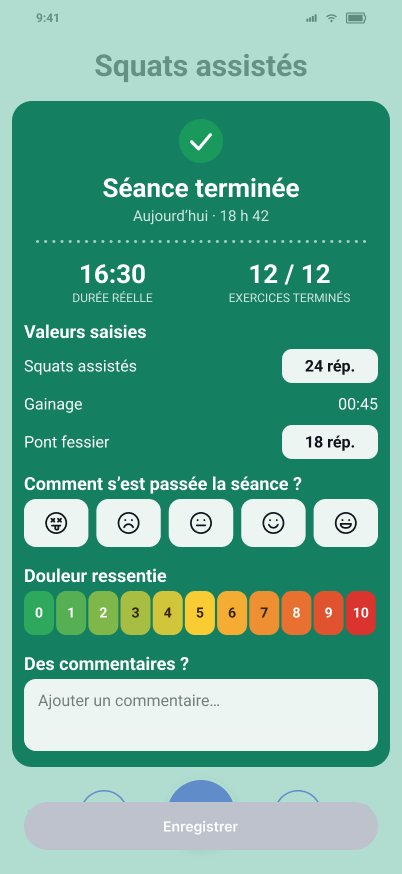
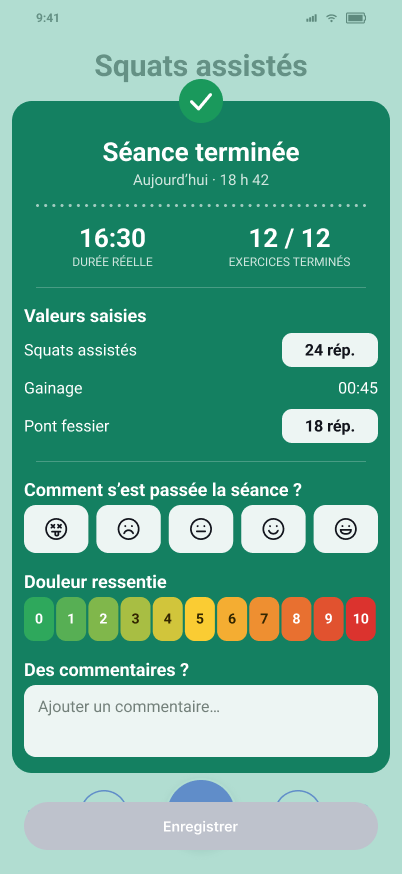
docs(D-578): fin de séance — symbole sur le bord, trois zones séparées
Classe B. Tests non applicables.

Claude-Session: https://claude.ai/code/session_0138cCmJPZqMKdiqcqtCSEpU

Changed region(s): [[0.0299, 0.0927, 0.9851, 0.8959]]

diff --git a/docs/Specifications-fonctionnelles/07 – Registre des décisions de conception.md b/docs/Specifications-fonctionnelles/07 – Registre des décisions de conception.md
@@ -2440,7 +2440,7 @@ Source : [KODJO-Catalogues-cartes-modales-2026-11-06](../KODJO-Catalogues-cartes
 | D-575 | **Pages des formats Tabata, 30/30, HIIT et Renforcement ; modale du Renforcement.** (1) Tabata, 30/30, HIIT : colonne « Objectif » renommée « Intervalle » ; la Durée totale est la dernière ligne du cadre des paramètres (après Exécution et, pour le Tabata à la suite, après « Récupération entre les mouvements ») ; la colonne Charge disparaît : la charge est écrite sous la valeur de l'intervalle, en plus petit et entre parenthèses, et rien n'est affiché quand il n'y a pas de charge. (2) Renforcement : même règle pour la charge (sous la valeur de la colonne Objectif) ; la Durée totale vient après la ligne Exécution ; la première colonne du tableau est « Séries » (nombre de séries de chaque mouvement) ; la ligne globale « Nombre de séries » est supprimée de la page. (2 bis) Death by : la charge est écrite sous la valeur de la colonne Départ, comme au point 1, et la colonne Charge disparaît. (2 ter) Dans les tableaux de ces formats, la dernière colonne est alignée à droite. (3) Modale « Paramètres d'exécution » du Renforcement : un premier cadre porte le Mode seul ; un deuxième réunit Nombre de répétitions, Nombre de séries, Pause et Charge ; un troisième De chaque côté + Cadence (D-572). (3 bis) Renforcement, nombre de séries : « À la suite », chaque mouvement a son propre nombre de séries ; « En alternance », les mouvements partagent les tours : le nombre de séries est commun et lié (le modifier pour un mouvement le modifie pour tous, dans le tableau comme dans la modale) ; le passage à « À la suite » conserve la valeur actuelle de chaque mouvement, qui peuvent ensuite différer. (4) Zone de contexte (Composition) : la durée totale est alignée à droite, en noir, au premier plan, par-dessus l'emplacement de l'illustration ; Progression : Durée totale après Exécution. Décisions de Hermann, 26/11/2026 ; la ligne Pause de la modale porte la colonne Pause de la page. | Validée — 26/11/2026 | [KODJO-Formats-entrainement-2026-11-02](../KODJO-Formats-entrainement-2026-11-02.md) § 9.10 |
 | D-576 | **Exécution d'un exercice : permutation des vues et changement de média.** (1) Un glissé horizontal (gauche ou droite) sur la zone du haut permute cadran ↔ gros chiffres ; sur la zone du bas (carte des informations ou média) il permute infos ↔ média. (2) Aucun écran d'exécution ne comporte de bouton ⇄ (retirés partout dans Figma le 26/11/2026) : la permutation des vues se fait uniquement par le glissé. [Remplace le bouton de changement de face de D-203 et la proposition du 26/11/2026 de deux boutons ⇄.] (3) Le glissé ne change plus de média : le changement de média se fait avec des flèches gauche/droite sur la zone média ; la galerie reste à plusieurs médias, ordre de la galerie, non circulaire, flèche inactive à la borne, pagination conservée. (4) Le média reste à la taille du demi-écran tant que le bouton d'extension n'est pas actionné ; les flèches de changement de média existent aussi en plein écran. Décisions de Hermann, 26/11/2026. | Validée — 26/11/2026 | [CONCEPTION-EXECUTION-MEDIA](../CONCEPTION-EXECUTION-MEDIA.md) § 5 |
 | D-577 | **Écran « Avant la séance » (affiché avant l'écran d'exécution avec le compte à rebours).** (1) Contenu : en-tête DSF avec bouton Retour et, pour titre, le nom de la séance (pas de zone de contexte, pas de trait de séparation) ; liste en lignes de texte, sans rail ni cartes (ce n'est pas une copie de la composition), des exercices, cycles et circuits qui vont être exécutés, dans l'ordre de la composition, avec le format de chaque circuit mis en évidence (chiffre en premier : « 8 tours · TABATA » (nom du format en majuscules, pour qu'on voie bien quel format est utilisé ; « Circuit libre » quand le circuit n'a pas de format), « 3 tours · Circuit libre », « 2 cycles » ; sans le détail des durées ni la nature groupées/alternées) ; bouton Commencer. (2) Lancement dans un Programme dont l'option douleur est active (D-427) : échelle de douleur 0–10 (libellé « Douleur ressentie avant la séance », sans légende : les cases 0 à 10 sont colorées du vert au rouge selon leur niveau, les couleurs suffisant à indiquer le sens de l'échelle) obligatoire, sans présélection, Le bouton de départ est inactif tant qu'aucun chiffre n'est choisi ; l'écran est toujours affiché. (3) Autre lancement : pas d'échelle de douleur ; une case à cocher « Ne plus afficher cet écran » est proposée, uniquement dans ce cas, en plus petit, hors du cadre vert, entre le cadre de la liste et celui de la douleur. Elle désactive l'affichage de l'écran pour cette séance seulement, jusqu'à ce que l'ordre ou le contenu de la séance (exercices, cycles, circuits, formats) change ; un changement des paramètres d'exécution (durées, répétitions) ne le fait pas réapparaître. Pour toutes les séances, le réglage « Afficher l'écran de démarrage de séance » (interrupteur, activé par défaut, premier réglage du groupe Séance de Profil › Préférences) affiche l'écran pour toute séance ; désactivé, il ne l'affiche pour aucune. La capture de la douleur ne dépend que du Programme (option douleur, D-427) et n'est pas concernée : les deux informations (liste de la séance, douleur) sont distinctes ; avec l'option douleur active, ni la case ni le réglage ne suppriment la capture : quand l'affichage est désactivé, seule la douleur est demandée : même écran, avec uniquement le deuxième cadre (douleur et départ), centré verticalement sur la page. [Remplace la mention « Facultatif. Sans réponse, la douleur est notée 0 » de l'ancienne version de l'écran, contraire à D-427.] (4) Parcours de plusieurs séances : l'écran existe en deux versions, une pour la première séance, une pour les suivantes (rang ≥ 2, écran de transition avant la séance suivante). La douleur est demandée une seule fois, sur la version de la première séance, et appliquée à toutes les séances du parcours ; la version des séances suivantes n'a pas d'échelle de douleur. Cette version est dessinée dans l'écran Figma « Exécution d'une séance — Initial — Enchaînement (proposition) » (`12716:25405`), qui reprend la présentation de l'écran de la première séance sans l'échelle de douleur (un seul grand cadre vert centré dans la page, contenant le titre, la liste et le bouton « Appuyer pour démarrer la 2ème séance » ; sans « du parcours »), sur le voile vert. (5) Présentation : le premier écran d'exécution de la séance est visible en fond, recouvert sur toute la hauteur du voile vert de l'écran de transition entre séances (DSF-AGENDA), identique à celui de l'écran de transition (même teinte, ≈ 35 %), posé sur un voile blanc à 50 % qui estompe l'écran d'exécution sans assombrir le vert ; le nom n'est pas affiché dans l'en-tête, il l'est comme titre de la carte ; le contenu est porté par une carte blanche, le bouton Retour DSF restant au-dessus du voile. La liste est présentée en une seule taille de texte agrandie (22 pt pour cycles, circuits, formats et exercices ; le titre « Mobilisation du genou » reste à sa taille propre, 26 pt), avec un espace supplémentaire avant chaque bloc circuit ou format (ex. Tabata), les cycles, circuits et formats se distinguant par le gras, sur une carte vert foncé (celui de l'encadré de la transition entre séances) aux textes blancs, avec une indentation par niveau (cycle, circuit, exercices du circuit) ; le titre de la carte (nom de la séance, ou du parcours : « Mobilisation du genou » dans l'écran) est affiché en plus grand, en gras, centré, avec davantage d'espace au-dessus et en dessous, à égale distance du haut du cadre et d'une ligne de pointillés blancs qui le sépare de la liste ; si le titre est trop long, il passe sur deux lignes ; si la liste est plus longue, la carte s'étend vers le haut (le bas reste ancré au-dessus de la carte douleur et départ) ; si elle dépasse encore la hauteur disponible, seule la liste défile, le titre restant toujours visible ; la douleur et Commencer sont sur une carte distincte, en bas de l'écran, de même vert foncé, libellé (gras, 22 pt comme les cycles et circuits) et légende en blanc. Les textes de la liste, de l'échelle de douleur et du bouton de départ sont en Roboto. Chaque exercice de la liste, hors le premier mis en avant, est précédé d'un petit point de liste. (6) Bouton de départ, de hauteur doublée (96 pt) et à texte agrandi : « Appuyer pour démarrer la séance » (séance lancée seule), « Appuyer pour démarrer le parcours » (première séance d'un parcours), « Appuyer pour démarrer la Xème séance du parcours » (séances suivantes), en texte agrandi sur deux lignes, sur fond blanc avec texte bleu du DSF et un effet de relief porté par le bouton lui-même (léger dégradé et bord inférieur épais, sans ombre portée) qui le fait lire comme un bouton (le bouton bleu standard manque de contraste sur le vert). Le chiffre choisi ressort par une case nettement plus grande (≈ 40 × 58 pt), un chiffre plus gros et une ombre portée, sans liseré. Avec l'échelle de douleur, il est inactif tant qu'aucun chiffre n'est choisi ; état inactif (Figma `13419:1329`) : bouton sur fond gris, sans relief, texte gris plus clair ; toutes les cases de l'échelle de même taille, aucune sélectionnée ; l'écran Figma le montre activé, douleur choisie. Décisions de Hermann, 27/11/2026. | Validée — 27/11/2026 | Figma « P-Avant la séance — Douleur » (`8921:35275`) et « Enchaînement (proposition) » (`12716:25405`) ; ch13 CE-EXEC-SESSION-01 ; rendu : `docs/DSF-AVANT-SEANCE-2026-11-27.md` |
-| D-578 | **Écran de fin de séance, état initial (Terminée — évaluation initiale).** Présentation reprise de l'écran « Avant la séance » (D-577) : l'écran d'exécution de la séance en fond sous les deux voiles (blanc 50 %, vert `#1F9E7A` 35 %), polices Roboto. **Un seul cadre vert** `#148061` aux textes blancs, de haut en bas : symbole de séance terminée (identique à l'icône « Complétée » de l'Agenda, 44 pt), « Séance terminée », date et heure, ligne de pointillés blancs, deux colonnes réparties horizontalement, chaque valeur centrée sur son libellé : durée réelle et exercices terminés (« 12 / 12 »), « Valeurs saisies » (les valeurs capturées pendant la séance, une ligne par exercice concerné : le nombre de répétitions est modifiable, dans un champ ; les durées capturées sont affichées sans pouvoir être modifiées), « Comment s'est passée la séance ? » avec cinq boutons de ressenti, sans libellé, à visages distincts, rangés de gauche à droite du plus négatif au plus positif (très mal, mal, neutre, bien, très bien), « Douleur ressentie » (échelle 0 à 10 colorée, D-577), « Des commentaires ? » (champ facultatif). Les titres de rubrique (valeurs saisies, ressenti, douleur, commentaires) ont la même taille (Roboto Bold 18). Le bouton Enregistrer est **hors du cadre**, conforme à la norme du Design system (« Bouton primaire », 354 × 48, état désactivé) et à sa position standard en bas d'écran ; désactivé tant qu'aucun ressenti n'est choisi. La douleur n'est demandée que si le programme l'active (D-427) ; sinon elle disparaît du cadre. Le nom de la séance et la liste détaillée des exercices réalisés sont retirés ; seules les valeurs saisies sont rappelées. À CLARIFIER : liste exacte des exercices et valeurs repris dans « Valeurs saisies » (aujourd'hui trois exemples dans la maquette). Pas de bouton Retour. Les autres états de la synthèse (ressenti sélectionné, séance partielle) sont à décliner sur cette présentation. | Validée — 27/11/2026 | Figma « P-Synthèse de séance — Terminée — Évaluation initiale » (`1992:8718`) ; ch13 CE-UI-08 |
+| D-578 | **Écran de fin de séance, état initial (Terminée — évaluation initiale).** Présentation reprise de l'écran « Avant la séance » (D-577) : l'écran d'exécution de la séance en fond sous les deux voiles (blanc 50 %, vert `#1F9E7A` 35 %), polices Roboto. **Un seul cadre vert** `#148061` aux textes blancs, en trois zones séparées discrètement (trait fin blanc à 22 %) : **statut de la séance**, **données enregistrées** (« Valeurs saisies »), **feedback** (ressenti, douleur, commentaires). De haut en bas : symbole de séance terminée (identique à l'icône « Complétée » de l'Agenda, 44 pt), posé à cheval sur le bord haut du cadre, à moitié dehors, « Séance terminée », date et heure, ligne de pointillés blancs, deux colonnes réparties horizontalement, chaque valeur centrée sur son libellé : durée réelle et exercices terminés (« 12 / 12 »), « Valeurs saisies » (les valeurs capturées pendant la séance, une ligne par exercice concerné : le nombre de répétitions est modifiable, dans un champ ; les durées capturées sont affichées sans pouvoir être modifiées), « Comment s'est passée la séance ? » avec cinq boutons de ressenti, sans libellé, à visages distincts, rangés de gauche à droite du plus négatif au plus positif (très mal, mal, neutre, bien, très bien), « Douleur ressentie » (échelle 0 à 10 colorée, D-577), « Des commentaires ? » (champ facultatif). Les titres de rubrique (valeurs saisies, ressenti, douleur, commentaires) ont la même taille (Roboto Bold 18). Le bouton Enregistrer est **hors du cadre**, conforme à la norme du Design system (« Bouton primaire », 354 × 48, état désactivé) et à sa position standard en bas d'écran ; désactivé tant qu'aucun ressenti n'est choisi. La douleur n'est demandée que si le programme l'active (D-427) ; sinon elle disparaît du cadre. Le nom de la séance et la liste détaillée des exercices réalisés sont retirés ; seules les valeurs saisies sont rappelées. À CLARIFIER : liste exacte des exercices et valeurs repris dans « Valeurs saisies » (aujourd'hui trois exemples dans la maquette). Pas de bouton Retour. Les autres états de la synthèse (ressenti sélectionné, séance partielle) sont à décliner sur cette présentation. | Validée — 27/11/2026 | Figma « P-Synthèse de séance — Terminée — Évaluation initiale » (`1992:8718`) ; ch13 CE-UI-08 |
 | D-579 | **Ressenti de séance à cinq niveaux (très bien, bien, neutre, mal, très mal).** Le choix du ressenti passe de trois à cinq niveaux, chacun avec un visage distinct, sans libellé, rangés du plus négatif (à gauche) au plus positif (à droite) : très mal (yeux en croix, langue tirée, sans bouche ouverte), mal (moue), neutre, bien (sourire), très bien (sourire large, bouche en contour transparent). Appliqué pour l'instant à l'écran de fin de séance (D-578). À CLARIFIER : extension aux autres écrans de synthèse, au composant de ressenti du Design system, aux cartes du flux et à la donnée enregistrée (aujourd'hui trois valeurs). | Validée — 27/11/2026 (écran de fin de séance) ; extension à arbitrer | Figma « P-Synthèse de séance — Terminée — Évaluation initiale » (`1992:8718`) |
 
 

diff --git a/docs/Specifications-fonctionnelles/13 – Contrats d’écran.md b/docs/Specifications-fonctionnelles/13 – Contrats d’écran.md
@@ -534,7 +534,7 @@ L’inventaire ci-dessous suit les frames `P-` de la page Figma `Prototype MVP` 
 | [`1992:6838`](https://www.figma.com/design/G6RY5Ebhgwb4AHIOYDwwvg?node-id=1992-6838) | Planifier une séance — Création | `CE-UI-05` | — |
 | [`1992:8132`](https://www.figma.com/design/G6RY5Ebhgwb4AHIOYDwwvg?node-id=1992-8132) | Exécution d'une séance — Démarrée | `CE-EXEC-SESSION-01` | — |
 | [`4968:8188`](https://www.figma.com/design/G6RY5Ebhgwb4AHIOYDwwvg?node-id=4968-8188) | Exécution d'un exercice — Démarrée | `CE-T03-10` | — |
-| [`1992:8718`](https://www.figma.com/design/G6RY5Ebhgwb4AHIOYDwwvg?node-id=1992-8718) | Synthèse de séance — Terminée —  Évaluation initiale | `CE-UI-08` | D-578 — présentation de l'écran « Avant la séance » : un seul cadre vert (synthèse en deux colonnes, valeurs saisies — répétitions modifiables, durées non modifiables —, ressenti, douleur, commentaire) sur l'écran d'exécution voilé ; Enregistrer hors cadre, « Bouton primaire » désactivé du Design system (354 × 48) sans ressenti ; symbole identique à « Complétée » de l'Agenda |
+| [`1992:8718`](https://www.figma.com/design/G6RY5Ebhgwb4AHIOYDwwvg?node-id=1992-8718) | Synthèse de séance — Terminée —  Évaluation initiale | `CE-UI-08` | D-578 — présentation de l'écran « Avant la séance » : un seul cadre vert en trois zones séparées par un trait fin (statut, données enregistrées, feedback), symbole à cheval sur le bord haut (synthèse en deux colonnes, valeurs saisies — répétitions modifiables, durées non modifiables —, ressenti, douleur, commentaire) sur l'écran d'exécution voilé ; Enregistrer hors cadre, « Bouton primaire » désactivé du Design system (354 × 48) sans ressenti ; symbole identique à « Complétée » de l'Agenda |
 | [`4968:8055`](https://www.figma.com/design/G6RY5Ebhgwb4AHIOYDwwvg?node-id=4968-8055) | Synthèse d'exécution — Exercice Terminé —  Évaluation initiale | `CE-T03-14` | — |
 | [`1992:8843`](https://www.figma.com/design/G6RY5Ebhgwb4AHIOYDwwvg?node-id=1992-8843) | Suivi — Séances — Liste condensée [écran supprimé le 20/11/2026 : historique présenté dans l’Agenda] | `CE-T03-15` | — |
 | [`1992:9910`](https://www.figma.com/design/G6RY5Ebhgwb4AHIOYDwwvg?node-id=1992-9910) | Catalogue des séances — Liste par défaut | `CE-T03-01` | — |

diff --git a/.github/orchestration/reports/2026-11-18_PLANIF-GRILLE-DOC.md b/.github/orchestration/reports/2026-11-18_PLANIF-GRILLE-DOC.md
@@ -359,3 +359,4 @@
 - Complément (suite 22 sexies, D-579) : fin de séance 1992:8718, ressenti à cinq niveaux avec cinq visages distincts ; extension aux autres écrans, au composant DS et à la donnée à arbitrer. Classe B ; tests non applicables.
 - Complément (suite 22 septies, D-578/D-579) : fin de séance 1992:8718, ordre des ressentis inversé (très mal → très bien), visage très bien (bouche basse, transparente), visage très mal (yeux en croix, langue tirée), Enregistrer conforme au Bouton primaire désactivé du DS (354 × 48, y 802). Classe B ; tests non applicables.
 - Complément (suite 22 octies, D-578) : fin de séance 1992:8718, « Des commentaires ? », « exercices terminés », chiffres centrés en deux colonnes, section « Valeurs saisies » (répétitions modifiables, durées non modifiables). Liste des valeurs reprises à préciser. Classe B ; tests non applicables.
+- Complément (suite 22 nonies, D-578) : fin de séance 1992:8718, symbole à cheval sur le bord haut du cadre, trois zones (statut / données enregistrées / feedback) séparées par un trait fin. Classe B ; tests non applicables.
